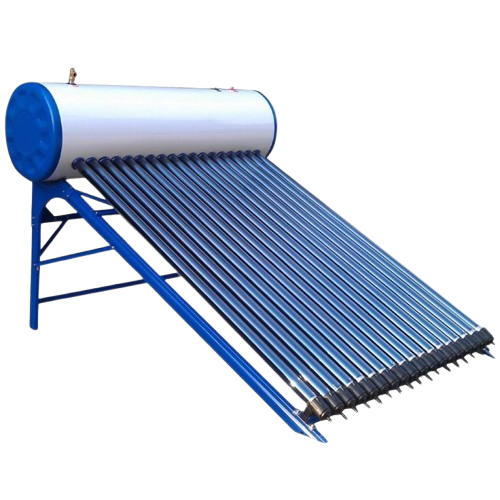
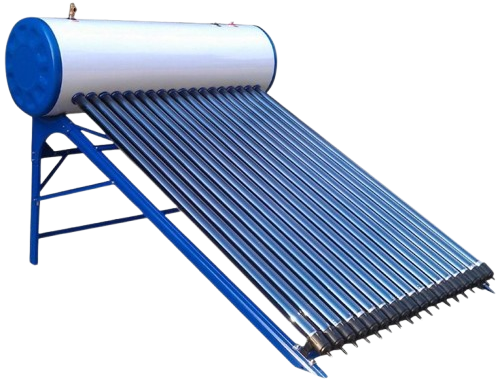
overview card

diff --git a/client/src/app/(services)/solar-water-heaters/SolarWaterHeatersClient.tsx b/client/src/app/(services)/solar-water-heaters/SolarWaterHeatersClient.tsx
@@ -177,7 +177,7 @@ export default function SolarWaterHeatersClient() {
             <div className="relative">
               <div className="relative h-[400px] rounded-xl overflow-hidden shadow-xl">
                 <Image
-                  src="/solar-heaters/solar-water-heater-preview.png"
+                  src="/solar-heaters/solar-water-heaters-preview.png"
                   alt="Solar water heater installation"
                   fill
                   className="object-cover"
@@ -247,7 +247,7 @@ export default function SolarWaterHeatersClient() {
         </div>
       </section>
 
-      {/* Solar Water Heaters Products Section - FIXED */}
+      {/* Solar Water Heaters Products Section */}
       <section className="py-20 lg:py-24 bg-gray-50 dark:bg-gray-900/30">
         <div className="container mx-auto px-4">
           <div className="text-center mb-12">

diff --git a/client/src/app/dashboard/page.tsx b/client/src/app/dashboard/page.tsx
@@ -139,7 +139,7 @@ function PremiumStatCard({ stat }: { stat: StatCardData }) {
         <p className="text-xs font-semibold text-gray-500 dark:text-gray-400 uppercase tracking-wider mb-1.5">
           {stat.name}
         </p>
-        <p className={`text-3xl sm:text-4xl font-bold ${stat.valueColor || 'text-gray-900 dark:text-white'} truncate`}>
+        <p className={`text-2xl sm:text-3xl font-bold ${stat.valueColor || 'text-gray-900 dark:text-white'} truncate`}>
           {typeof stat.value === 'number' ? stat.value.toLocaleString() : stat.value}
         </p>
         {stat.subtitle && (

diff --git a/client/src/app/(mainservices)/solar-solutions/SolarSolutionsClient.tsx b/client/src/app/(mainservices)/solar-solutions/SolarSolutionsClient.tsx
@@ -39,7 +39,7 @@ const CircularGallery = dynamic(
 const galleryItems = [
   { image: '/backup/solar-backup-kenya.png', text: 'Residential Solar' },
   { image: '/images/100kw_solar_plant.jpg', text: 'Commercial Solar' },
-  { image: '/solar-heaters/solar-water-heaters.png', text: 'Solar Water Heater' },
+  { image: '/solar-water-heaters.jpg', text: 'Solar Water Heater' },
   { image: '/water-pump/Honda-Water-Pump.png', text: 'Solar Water Pump' },
   { image: '/images/solar.jpg', text: 'Solar Installation' },
   { image: '/images/solar-4.jpg', text: 'Hybrid System' },
